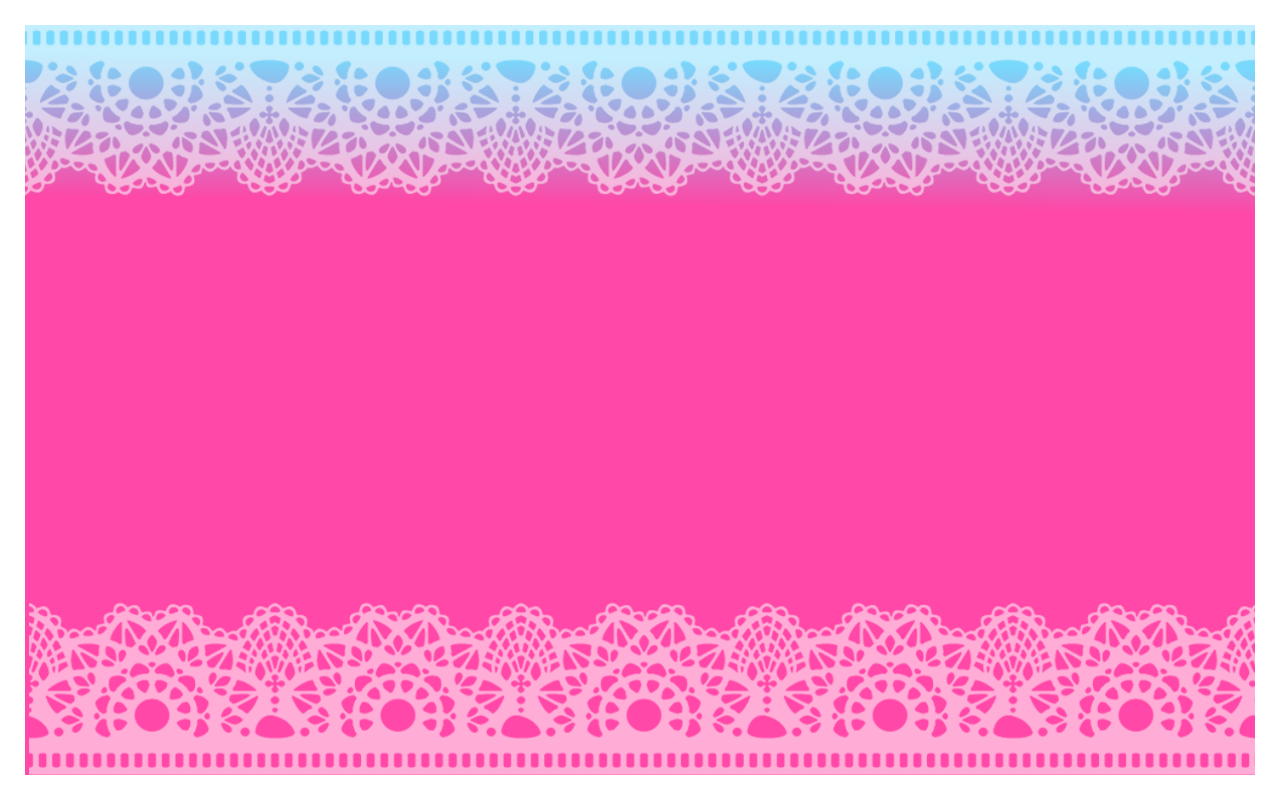
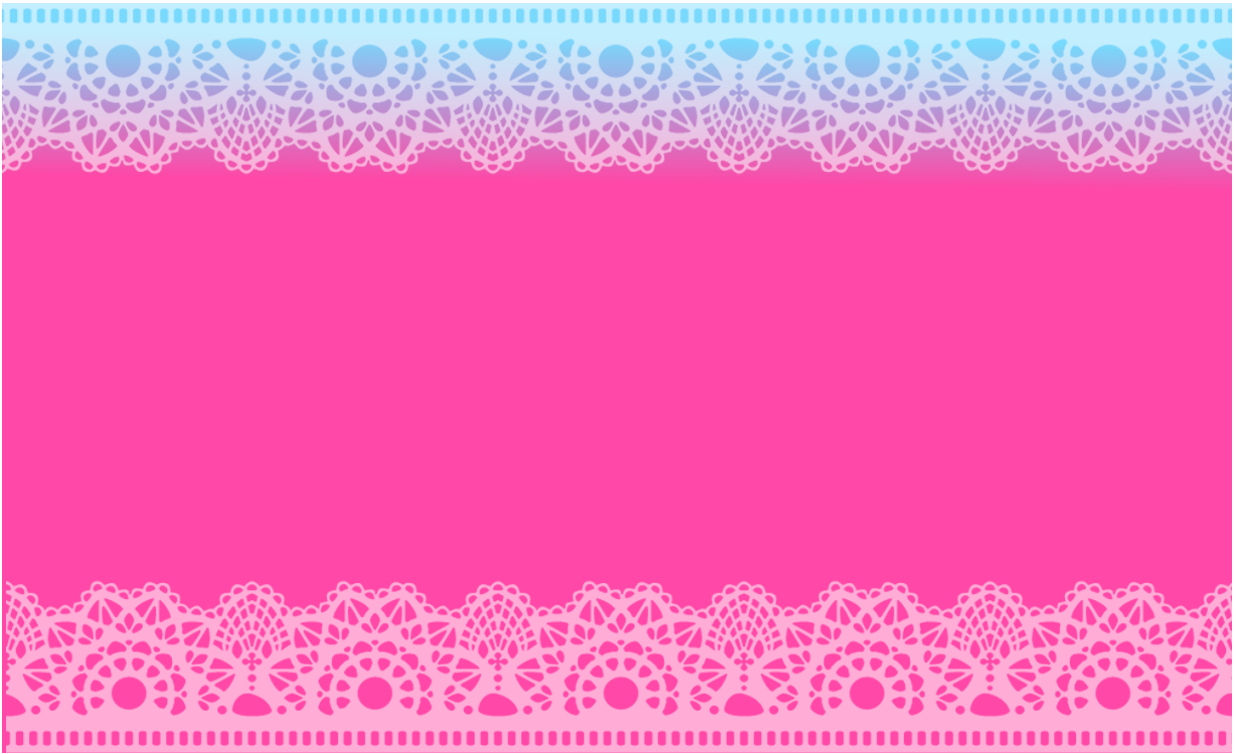
クイズページを更新

diff --git a/static/css/quiz.css b/static/css/quiz.css
@@ -1,6 +1,12 @@
-html, body {
-    background-color: #ff8a00;
+html {
     height: 100%;
+}
+body {
+    background-image: url('../img/background.png');
+    background-size: cover;
+    background-repeat:no-repeat;
+    height: 100%;
+    padding-top: 4%;
 }
 
 .fill {
@@ -17,11 +23,23 @@ html, body {
 #dance {
     margin: 4%;
     height: 92%;
-    background-color: #fff;
+    background-color: rgba(255, 255, 255, 0.67);
+}
+#dance > img {
+    display: block;
+    margin: auto;
+    height: 80%;
 }
 
 #question {
     height: 30%;
+}
+
+#question > h1, p {
+    font-weight: bold;
+    font-size: 30px;
+    text-shadow: #fff 2px 2px 0px, #fff -2px 2px 0px,
+    #fff 2px -2px 0px, #fff -2px -2px 0px;
 }
 
 .question {
@@ -45,9 +63,15 @@ html, body {
 #action {
     height: 10%;
 }
+#action > img {
+    margin: 1%;
+    width: 30%;
+}
 
 #phrase {
     margin: 20px;
-    background-color: #f9f;
+    height: 10%;
+    border: 2px solid #7ac9f6;
+    background-color: rgba(255, 255, 255, 0.5);
 }
 

diff --git a/templates/index.html b/templates/index.html
@@ -44,9 +44,9 @@
           </div>
         </div>
         <div id="action">
-          <button id="back">もどる</button>
-          <button id="reset">やり直す</button>
-          <button id="judge">ためす</button>
+            <img id="back" src="../static/img/return.png" alt="">
+            <img id="reset" src="../static/img/reset.png" alt="">
+            <img id="judge" src="../static/img/judge.png" alt="">
         </div>
       </div>
     </div>
